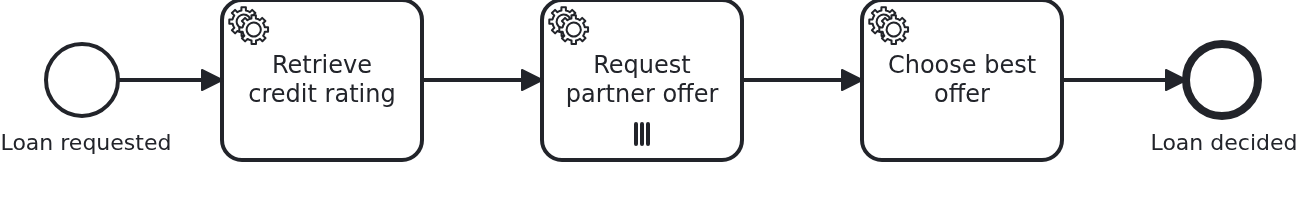
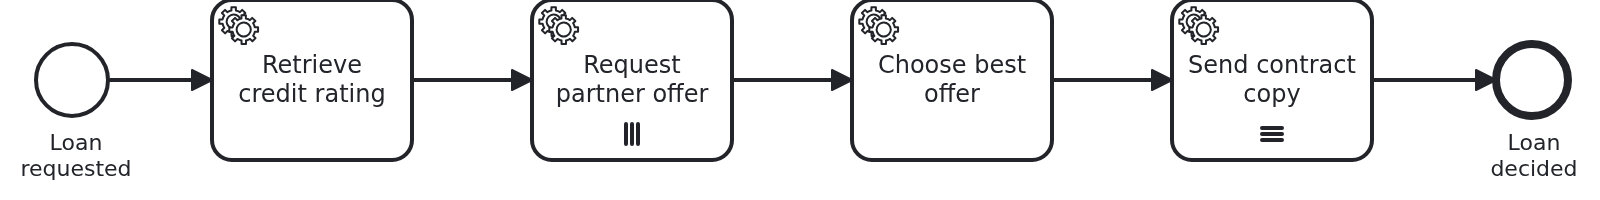
S68: bpmn-multi-instance-task loops over a number as well
The wiki of spi-for-java showed a multi-instance task based on a
cardinality with an example written for the page. Now
bpmn-multi-instance-task shows it.

After the best offer is chosen, a second multi-instance task sends a
copy of the contract to the customer and to the partner chosen, one
after the other. It loops over a number, getContractCopies(), which the
aggregate shares with @SyncWithBPMS and the module configuration
declares. The method takes only @MultiInstanceIndex and the business
code reads the recipient from the aggregate by that index. Camunda 7,
Operaton and CIB seven read the number as loopCardinality. Camunda 8 has
no loopCardinality, so its model builds a list of that length with FEEL.
A new test checks one copy per recipient.

Claude-Session: https://claude.ai/code/session_01PUQtmsByH9GWompBHFMeUv

diff --git a/loan-approval/src/main/java/blueprint/workflowmodule/loanapproval/model/Aggregate.java b/loan-approval/src/main/java/blueprint/workflowmodule/loanapproval/model/Aggregate.java
@@ -38,7 +38,13 @@ import lombok.NoArgsConstructor;
  * {@code @NoSyncWithBPMS}, so nothing is shared unless it says otherwise, and
  * {@link #partnerIds} is annotated {@code @SyncWithBPMS} because the model iterates over
  * it. The engine has to see that list to make one instance per element. The offers do not
- * go there, and neither does anything else, because no expression in the model reads them.
+ * go there, because no expression in the model reads them.
+ * </p>
+ *
+ * <p>
+ * The second multi-instance task sends the contract, once per recipient. It is based on a
+ * number, not on a collection. So only {@link #getContractCopies()} reaches the BPMS, and
+ * the recipients stay here, in {@link #contractRecipients()}.
  * </p>
  *
  * @see <a href=
@@ -53,6 +59,9 @@ import lombok.NoArgsConstructor;
 @Builder
 @NoSyncWithBPMS
 public class Aggregate {
+
+  /** Who gets the first copy of the contract. The partner chosen gets the second one. */
+  public static final String CUSTOMER = "customer";
 
   /**
    * The natural id of the use case. Using a business identifier instead of a generated
@@ -114,6 +123,43 @@ public class Aggregate {
   /** The rate of the offer chosen, in basis points. */
   @Column
   private Integer chosenRate;
+
+  /**
+   * How many copies of the contract went out so far, written by the second multi-instance
+   * task. Its instances run one after the other, so one counter is safe here.
+   */
+  @Column
+  private Integer contractCopiesSent;
+
+  /**
+   * Who gets a copy of the contract: the customer, and the partner chosen once there is one.
+   * Nothing of this reaches the BPMS. The business code reads the recipient of an iteration
+   * from here, by its index.
+   *
+   * @return The recipients, in the order the copies are sent.
+   */
+  public List<String> contractRecipients() {
+
+    if (chosenPartnerId == null) {
+      return List.of(CUSTOMER);
+    }
+    return List.of(CUSTOMER, chosenPartnerId);
+
+  }
+
+  /**
+   * How many copies of the contract the model sends. The second multi-instance task reads it
+   * as its number of iterations, so it is annotated {@code @SyncWithBPMS}. Only the number
+   * reaches the BPMS, not the recipients.
+   *
+   * @return The number of copies.
+   */
+  @SyncWithBPMS
+  public int getContractCopies() {
+
+    return contractRecipients().size();
+
+  }
 
   /**
    * Adds an offer of one iteration.

diff --git a/loan-approval/src/main/java/blueprint/workflowmodule/loanapproval/Service.java b/loan-approval/src/main/java/blueprint/workflowmodule/loanapproval/Service.java
@@ -195,6 +195,50 @@ public class Service {
   }
 
   /**
+   * Sends one copy of the contract. The model runs this once per copy, by a number and not by
+   * a collection. So the iteration brings only its index, and the recipient is read from the
+   * aggregate by that index.
+   *
+   * <p>
+   * The copies are sent one after the other. If the BPMS delivers an iteration a second time,
+   * the counter already covers it, and the method returns at once.
+   * </p>
+   *
+   * @param loanApproval The workflow's aggregate.
+   * @param index        Which copy this is, counted from zero.
+   */
+  public void sendContractCopy(
+      final Aggregate loanApproval,
+      final int index) {
+
+    final var sent = loanApproval.getContractCopiesSent() == null
+        ? 0
+        : loanApproval.getContractCopiesSent();
+    if (index < sent) {
+
+      log.info(
+          "Loan approval '{}' sent copy {} of the contract already, nothing to do",
+          loanApproval.getLoanRequestId(),
+          index + 1);
+      return;
+
+    }
+
+    final var recipient = loanApproval
+        .contractRecipients()
+        .get(index);
+
+    loanApproval.setContractCopiesSent(index + 1);
+
+    log.info(
+        "Loan approval '{}' sends copy {} of the contract to '{}'",
+        loanApproval.getLoanRequestId(),
+        index + 1,
+        recipient);
+
+  }
+
+  /**
    * The state of a loan approval, as far as the process has come.
    *
    * @param loanRequestId The natural id of the loan request.

diff --git a/loan-approval/src/test/java/blueprint/workflowmodule/loanapproval/LoanApprovalIT.java b/loan-approval/src/test/java/blueprint/workflowmodule/loanapproval/LoanApprovalIT.java
@@ -41,7 +41,8 @@ public class LoanApprovalIT extends WorkflowModuleTest {
     return awaitAggregate(
         loanApprovals,
         loanRequestId,
-        aggregate -> aggregate.getChosenPartnerId() != null);
+        aggregate -> aggregate.getContractCopiesSent() != null && aggregate.getContractCopiesSent() == aggregate
+            .getContractCopies());
 
   }
 
@@ -74,6 +75,20 @@ public class LoanApprovalIT extends WorkflowModuleTest {
     assertThat(loanRequest.getCreditRating()).isEqualTo(50);
     assertThat(loanRequest.getChosenPartnerId()).isEqualTo("harbour-credit");
     assertThat(loanRequest.getChosenRate()).isEqualTo(70);
+
+  }
+
+  @Test
+  @DisplayName("A multi-instance task based on a number sends one copy per recipient")
+  public void oneIterationPerContractCopy() {
+
+    final var loanRequest = runWith(5000);
+
+    // the model iterated 'contractCopies' times: the customer and the partner chosen
+    assertThat(loanRequest.contractRecipients()).containsExactly(Aggregate.CUSTOMER, "harbour-credit");
+    assertThat(loanRequest.getContractCopiesSent())
+        .describedAs("one iteration per copy, counted by the index the BPMS passed")
+        .isEqualTo(2);
 
   }
 

diff --git a/loan-approval/src/main/java/blueprint/workflowmodule/loanapproval/WorkflowTaskHandler.java b/loan-approval/src/main/java/blueprint/workflowmodule/loanapproval/WorkflowTaskHandler.java
@@ -56,6 +56,9 @@ public class WorkflowTaskHandler {
    */
   private static final String REQUEST_PARTNER_OFFER = "ServiceTask_RequestPartnerOffer";
 
+  /** The ID of the second multi-instance element, the one based on a number. */
+  private static final String SEND_CONTRACT_COPY = "ServiceTask_SendContractCopy";
+
   @Autowired
   private Service loanApproval;
 
@@ -117,6 +120,27 @@ public class WorkflowTaskHandler {
       final Aggregate loanRequest) {
 
     loanApproval.chooseBestOffer(loanRequest);
+
+  }
+
+  /**
+   * Called once per copy of the contract, one after the other.
+   *
+   * <p>
+   * This multi-instance task is based on a number of iterations, not on a collection. So
+   * there is no element to pass. The method asks for the index only, and the business code
+   * fetches the recipient from the aggregate.
+   * </p>
+   *
+   * @param loanRequest The workflow's aggregate.
+   * @param index        Which copy this is, counted from zero.
+   */
+  @WorkflowTask
+  public void sendContractCopy(
+      final Aggregate loanRequest,
+      @MultiInstanceIndex(SEND_CONTRACT_COPY) final int index) {
+
+    loanApproval.sendContractCopy(loanRequest, index);
 
   }
 

diff --git a/README.md b/README.md
@@ -60,21 +60,61 @@ Anything computed over all iterations belongs after the multi-instance task. `ch
 is a plain service task which runs once, when the last instance has finished. It reads the rows
 the iterations left.
 
+### A number of iterations instead of a collection
+
+After the choice, the contract goes out: one copy to the customer, one to the partner chosen.
+The second multi-instance task, `sendContractCopy`, loops over a NUMBER, not over a collection.
+Its instances run one after the other. The aggregate shares the number through a getter,
+`getContractCopies()`, annotated `@SyncWithBPMS`. The recipients stay in the application.
+
+There is no element to hand over. So the method asks for the index only, and the business code
+fetches the recipient from the aggregate by that index:
+
+```java
+@WorkflowTask
+public void sendContractCopy(
+    final Aggregate loanRequest,
+    @MultiInstanceIndex(SEND_CONTRACT_COPY) final int index) {
+
+  loanApproval.sendContractCopy(loanRequest, index);
+
+}
+```
+
+The engines say "a number" in different words. Camunda 7 and its forks read it as
+`loopCardinality`:
+
+```xml
+<bpmn:multiInstanceLoopCharacteristics isSequential="true">
+  <bpmn:loopCardinality xsi:type="bpmn:tFormalExpression">${contractCopies}</bpmn:loopCardinality>
+</bpmn:multiInstanceLoopCharacteristics>
+```
+
+Camunda 8 has no `loopCardinality`. Its model needs a collection, so a FEEL expression builds a
+list of that length:
+
+```xml
+<zeebe:loopCharacteristics inputCollection="=for copy in 1..contractCopies return copy" />
+```
+
+Camunda 8 hands every instance its element anyway. The method does not ask for it, so the same
+Java code serves both.
+
 ## Delta to the base blueprint
 
 Compared to [`module-single`](https://github.com/vanillabp-blueprints/module-single-springboot):
 
-|                                         File                                          |                                                                                What is different                                                                                |
-|---------------------------------------------------------------------------------------|---------------------------------------------------------------------------------------------------------------------------------------------------------------------------------|
-| `loan_approval.bpmn`                                                                  | a multi-instance service task iterating over an attribute of the aggregate, and a task after it                                                                                 |
-| `Aggregate.java`                                                                      | `partnerIds`, which the model loops over and which is therefore shared with the BPMS, and `offers`, one row per iteration                                                       |
-| `PartnerOffer.java`                                                                   | new: what one iteration found                                                                                                                                                   |
-| `WorkflowTaskHandler.java`                                                            | `@MultiInstanceElement`, `@MultiInstanceIndex` and `@MultiInstanceTotal`                                                                                                        |
-| `Service.java`                                                                        | a method taking ONE partner, and a second one choosing between the results                                                                                                      |
-| `loan-approval.yaml`, `LoanApprovalProperties.java`                                   | the partners, which is what decides how many iterations there are, and that the iterations were reviewed for writing at the same time                                           |
-| `LoanApprovalIT.java`                                                                 | asserts the rows of all iterations, without relying on the order they arrived in                                                                                                |
-| `pom.xml`, `application/pom.xml`, `loan-approval/pom.xml`                             | the engine versions, and the SPIN plugin with its JSON format in each BPMS profile of the Camunda 7 family                                                                      |
-| `application-camunda7.yaml`, `application-operaton.yaml`, `application-cibseven.yaml` | JSON as the serialization format and the SPIN plugin, in the application and in the test resources. Without them the web applications cannot show the list the model loops over |
+|                                         File                                          |                                                                                              What is different                                                                                              |
+|---------------------------------------------------------------------------------------|-------------------------------------------------------------------------------------------------------------------------------------------------------------------------------------------------------------|
+| `loan_approval.bpmn`                                                                  | a multi-instance service task iterating over an attribute of the aggregate, a task after it, and a second multi-instance task based on a number                                                             |
+| `Aggregate.java`                                                                      | `partnerIds`, which the model loops over and which is therefore shared with the BPMS, `offers`, one row per iteration, and the number of contract copies                                                    |
+| `PartnerOffer.java`                                                                   | new: what one iteration found                                                                                                                                                                               |
+| `WorkflowTaskHandler.java`                                                            | `@MultiInstanceElement`, `@MultiInstanceIndex` and `@MultiInstanceTotal`                                                                                                                                    |
+| `Service.java`                                                                        | a method taking ONE partner, a second one choosing between the results, and a third one sending one copy of the contract                                                                                    |
+| `loan-approval.yaml`, `LoanApprovalProperties.java`                                   | the partners, which is what decides how many iterations there are, that the iterations were reviewed for writing at the same time, and `partnerIds` and `contractCopies` declared as values the model reads |
+| `LoanApprovalIT.java`                                                                 | asserts the rows of all iterations, without relying on the order they arrived in, and the copies of the contract                                                                                            |
+| `pom.xml`, `application/pom.xml`, `loan-approval/pom.xml`                             | the engine versions, and the SPIN plugin with its JSON format in each BPMS profile of the Camunda 7 family                                                                                                  |
+| `application-camunda7.yaml`, `application-operaton.yaml`, `application-cibseven.yaml` | JSON as the serialization format and the SPIN plugin, in the application and in the test resources. Without them the web applications cannot show the list the model loops over                             |
 
 ## Running it
 
@@ -196,16 +236,18 @@ to log in is in the
 |                                            File                                            |                                                                           Role                                                                            |
 |--------------------------------------------------------------------------------------------|-----------------------------------------------------------------------------------------------------------------------------------------------------------|
 | `loan-approval/src/main/resources/loan-approval/processes/<adapter-id>/loan_approval.bpmn` | the multi-instance task, what it loops over and what each instance gets                                                                                   |
-| `.../loanapproval/WorkflowTaskHandler.java`                                                | turns the element, the index and the total into a call naming one partner                                                                                 |
+| `.../loanapproval/WorkflowTaskHandler.java`                                                | turns the element, the index and the total into a call naming one partner, and the index alone into a call sending one copy                               |
 | `.../loanapproval/Service.java`                                                            | asks one partner, and picks the best offer once all of them answered                                                                                      |
-| `.../loanapproval/model/Aggregate.java`                                                    | the collection the model iterates over, and the offers written into it                                                                                    |
+| `.../loanapproval/model/Aggregate.java`                                                    | the collection the model iterates over, the offers written into it, and the number of contract copies                                                     |
 | `.../loanapproval/model/PartnerOffer.java`                                                 | one row per iteration, which is what makes concurrent instances harmless                                                                                  |
 | `loan-approval/src/main/resources/loan-approval/loan-approval.yaml`                        | the partners, so the number of iterations is configuration, not model; and `concurrent-branches-reviewed`, because each iteration writes a row of its own |
-| `loan-approval/src/test/.../LoanApprovalIT.java`                                           | asserts the rows of all iterations and the choice made from them                                                                                          |
+| `loan-approval/src/test/.../LoanApprovalIT.java`                                           | asserts the rows of all iterations, the choice made from them and the copies sent                                                                         |
 
 The order of events: `retrieveCreditRating` writes the rating and the partners. The engine
 evaluates the collection and creates one instance per element. Each instance runs the handler
-in a transaction of its own. `chooseBestOffer` runs when the last of them has finished.
+in a transaction of its own. `chooseBestOffer` runs when the last of them has finished. Then
+the engine reads `contractCopies` and runs `sendContractCopy` that many times, one after the
+other.
 
 The test says `containsExactlyInAnyOrder`, and that is not laziness. The instances have no
 order among themselves. A test which expects one passes on an embedded engine and fails on a

diff --git a/AGENTS.md b/AGENTS.md
@@ -31,6 +31,8 @@ Blueprint-specific names, each occurring in more than one place:
 | `ServiceTask_RequestPartnerOffer` | the ID of the multi-instance element in the BPMN and the value of all three multi-instance annotations |
 | `partnerIds`                      | the attribute of the workflow aggregate and the collection expression of the multi-instance element    |
 | `partnerId`                       | the element variable of the model and the parameter the handler is given                               |
+| `ServiceTask_SendContractCopy`    | the ID of the multi-instance element based on a number and the value of its `@MultiInstanceIndex`      |
+| `contractCopies`                  | the getter `getContractCopies()` of the aggregate and the number the model loops over                  |
 
 The value of the annotations is the ID of the multi-instance ELEMENT, not the name of the
 element variable. If it is wrong, the task fails while it runs. The message names the contexts
@@ -41,7 +43,7 @@ the BPMS (business process management system) did supply.
 |                                            File                                            |                                                                    Why it matters                                                                     |
 |--------------------------------------------------------------------------------------------|-------------------------------------------------------------------------------------------------------------------------------------------------------|
 | `loan-approval/src/main/resources/loan-approval/processes/<adapter-id>/loan_approval.bpmn` | the multi-instance element: what it loops over, what each instance gets, and whether they run at the same time                                        |
-| `loan-approval/src/main/java/.../loanapproval/WorkflowTaskHandler.java`                    | `@MultiInstanceElement`, `@MultiInstanceIndex`, `@MultiInstanceTotal`                                                                                 |
+| `loan-approval/src/main/java/.../loanapproval/WorkflowTaskHandler.java`                    | `@MultiInstanceElement`, `@MultiInstanceIndex`, `@MultiInstanceTotal`, and a method which takes the index alone                                       |
 | `loan-approval/src/main/java/.../loanapproval/model/Aggregate.java`                        | the collection the model iterates over, and the rows the iterations write                                                                             |
 | `loan-approval/src/main/java/.../loanapproval/model/PartnerOffer.java`                     | a row per iteration, which is what makes concurrent instances harmless                                                                                |
 | `loan-approval/src/main/java/.../loanapproval/Service.java`                                | one method per iteration and one for the result over all of them                                                                                      |
@@ -101,6 +103,13 @@ blueprint. Copy them unchanged.
 7. Extend `LoanApprovalIT` with assertions which do not depend on the order of the iterations.
    Use `containsExactlyInAnyOrder`, not `containsExactly`, because there is no order.
 
+If the model loops over a NUMBER and not over a collection, there is no element. Take only
+`@MultiInstanceIndex` and fetch what the iteration needs from the aggregate, as
+`sendContractCopy` does. Share the number through a getter annotated `@SyncWithBPMS`. On
+Camunda 7, Operaton and CIB seven the model reads it as `loopCardinality`. Camunda 8 has no
+`loopCardinality`: write `inputCollection="=for copy in 1..<number> return copy"`. The number
+must be at least 1 there, because `1..0` counts down and gives two elements.
+
 The `resolverBean` of `@MultiInstanceElement` is for nested iterations, like a multi-instance
 task inside a multi-instance subprocess. This blueprint does not need it. The
 [SPI documentation](https://github.com/vanillabp/spi-for-java/wiki/Multi-instance#nested-multi-instance-activities) shows it.
@@ -116,6 +125,7 @@ running cluster and a configured `vanillabp.adapters.camunda8.rest-address`. Che
 you report a failure of that profile as a defect of the generated code.
 
 `LoanApprovalIT` proves the aspect and has to pass: one row per element, the index each
-iteration was given, and the result computed after the last of them.
+iteration was given, the result computed after the last of them, and one copy of the contract
+per recipient.
 
 Do not report success without having run this.
